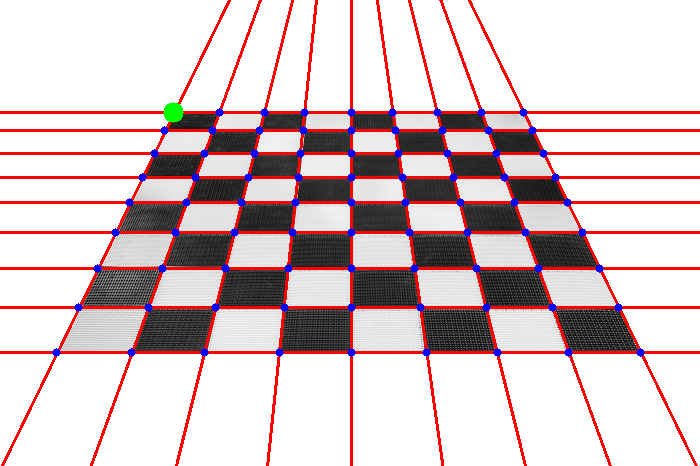
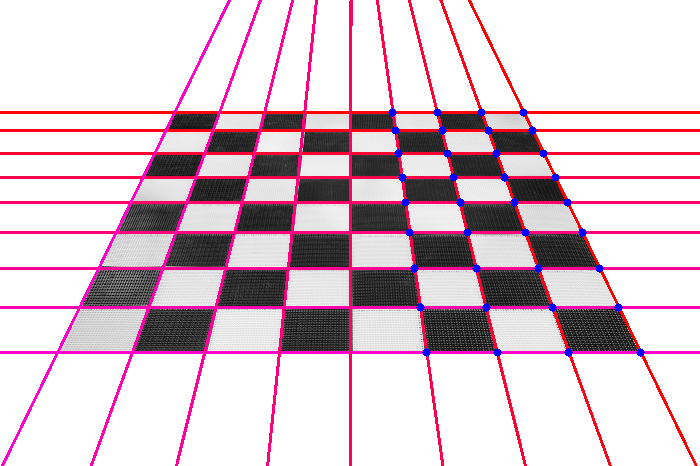
sorting lines works

diff --git a/separating lines.py b/separating lines.py
@@ -1,0 +1,228 @@
+import cv2
+import numpy as np
+import itertools
+from matplotlib import pyplot as plt
+from operator import itemgetter
+
+
+def absol2D(x,y):
+
+    return x*x+y*y
+
+def intersectionS(line1,line2):
+
+    r1=line1[0]
+    t1=line1[1]
+    r2=line2[0]
+    t2=line2[1]
+
+    det=np.cos(t1)*np.sin(t2)-np.sin(t1)*np.cos(t2)
+    #print("determinant: ",det)
+    if det==0:
+        # line are paralel
+        return False
+    else:
+        global px
+        global py
+        px=int((np.sin(t2)*r1-np.sin(t1)*r2)/det)
+        py=-int((np.cos(t2)*r1-np.cos(t1)*r2)/det)  #image coords...
+        if px>0 and px< width and py>0 and py< height:
+            #print(px,py)
+            cv2.circle(lineimg,(px,py), 4, (255,0,0), -1)
+            return True
+        else: 
+            # intersecton out of image
+            return False
+
+
+#def dist_of_2_points(x1,y1,x2,y2):
+#    return (x2-x1)**2+(y2-y1)**2
+
+def dist_of_2_points(p1,p2):
+    x1=p1[0]
+    y1=p1[1]
+    x2=p2[0]
+    y2=p2[1]
+    return (x2-x1)**2+(y2-y1)**2
+
+iter1=0
+filename = 'images2.jpg'
+orig = cv2.imread(filename)
+
+height, width, _ = orig.shape # height,width,colors
+
+#cv2.imshow('original',orig)
+img = cv2.imread(filename)
+gray = cv2.cvtColor(img,cv2.COLOR_BGR2GRAY)
+blurred = cv2.GaussianBlur(gray,(5,5),0)
+th2 = cv2.adaptiveThreshold(
+    blurred,
+    255,
+    cv2.ADAPTIVE_THRESH_MEAN_C,
+    cv2.THRESH_BINARY,
+    81,  #blocksize to consider
+    36)  #offset
+
+lineimg=orig
+
+edges = cv2.Canny(blurred,50,150,apertureSize = 3)
+
+lines = cv2.HoughLines(edges,1.5,np.pi/90,100)
+#print (lines)
+for x in range(len(lines)):
+    for rho, theta in lines[x]:
+
+        a = np.cos(theta)
+        b = np.sin(theta)
+        x0 = a*rho
+        y0 = b*rho
+        x1 = int(x0 + 1000*(-b))
+        y1 = int(y0 + 1000*(a))
+        x2 = int(x0 - 1000*(-b))
+        y2 = int(y0 - 1000*(a))
+
+    #cv2.line(lineimg,(x1,y1),(x2,y2),(0,0,255),2)
+
+
+
+
+###separating lines with Kmeans
+
+clean_lines=[i[0] for i in lines]
+
+theta=[i[1] for i in clean_lines]
+z = np.float32(theta)
+
+
+criteria = (cv2.TERM_CRITERIA_EPS + cv2.TERM_CRITERIA_MAX_ITER, 10, 1.0)
+flags = cv2.KMEANS_RANDOM_CENTERS
+
+# Apply KMeans
+compactness,labels,centers = cv2.kmeans(z,3,None,criteria,10,flags)
+
+###change z 2 clean_lines later...
+pack1=list(itertools.compress(clean_lines, labels==0))
+pack2=list(itertools.compress(clean_lines, labels==1))
+pack3=list(itertools.compress(clean_lines, labels==2))
+
+
+#plt.plot(z)
+#plt.plot(pack1)
+#plt.plot(pack2)
+#plt.plot(pack3)
+#plt.show()
+
+if len(pack1)==9:
+    biggrup=1
+    pack2=pack3+pack2
+    #print (11)
+elif len(pack2)==9:
+    biggrup=2
+    pack1=pack3+pack1
+    #print (22)
+    
+
+elif len(pack3)==9:
+    biggrup=3
+    pack2=pack1+pack2
+    pack1=pack3
+    #print (33)
+
+print (222, pack2)
+####sort the sparated lines, based on rho
+
+
+sorted_pack1=sorted(pack1, key=itemgetter(0))
+plt.plot(pack2)
+
+###doesnt work quite yet
+
+###add 180 degrees to low theta lines
+for i in range(len(pack2)):
+
+    if pack2[i][1]<np.pi/2 : pack2[i][1]=pack2[i][1]+np.pi
+
+print (222, pack2)
+plt.plot(pack2)
+sorted_pack2=sorted(pack2, key=itemgetter(1))
+
+#uc_x,uc_y=[np.cos(x[1]), np.sin(x[1]) for x in pack2]
+
+# uc_x=map((itemgetter(0)), pack2)
+# uc_y=map((itemgetter(0)), pack2)
+np_pack2 = np.array(pack2)
+uc_x=np.cos((np_pack2[:,1]))
+uc_y=np.sin((np_pack2[:,1]))
+
+
+# plt.plot(uc_x, uc_y)
+# plt.plot(uc_y)
+plt.show()
+
+
+
+for x in range(len(sorted_pack1)):
+    print (111,x, sorted_pack1[x])
+    theta=sorted_pack1[x][1]
+    rho=sorted_pack1[x][0]
+    print (rho,theta)
+    a = np.cos(theta)
+    b = np.sin(theta)
+    x0 = a*rho
+    y0 = b*rho
+    x1 = int(x0 + 1000*(-b))
+    y1 = int(y0 + 1000*(a))
+    x2 = int(x0 - 1000*(-b))
+    y2 = int(y0 - 1000*(a))
+
+    cv2.line(lineimg,(x1,y1),(x2,y2),(x*25,0,255),2)
+    #cv2.imshow('after_line_search',lineimg)
+    if cv2.waitKey(0) & 0xff == 27:
+        cv2.destroyAllWindows()
+
+for x in range(len(sorted_pack2)):
+    print (111,x, sorted_pack2[x])
+    theta=sorted_pack2[x][1]
+    if theta>np.pi: theta=theta-np.pi
+    rho=sorted_pack2[x][0]
+    print (rho,theta)
+    a = np.cos(theta)
+    b = np.sin(theta)
+    x0 = a*rho
+    y0 = b*rho
+    x1 = int(x0 + 1000*(-b))
+    y1 = int(y0 + 1000*(a))
+    x2 = int(x0 - 1000*(-b))
+    y2 = int(y0 - 1000*(a))
+
+    cv2.line(lineimg,(x1,y1),(x2,y2),(x*25,0,255),2)
+    cv2.imshow('after_line_search',lineimg)
+    if cv2.waitKey(0) & 0xff == 27:
+        cv2.destroyAllWindows()
+#cv2.imshow('after_blurr',blurred)
+#cv2.imshow('after_treshold',th2)
+#cv2.imshow('after_line_search',lineimg)
+
+combies=list(itertools.combinations(lines,2))
+# combination of all the lines to pairs
+# something better algorithm??
+px=0
+py=0
+# initial coordinats of crosses
+
+points=[]
+for i in combies:
+
+    #print (i[0][0], i[1][0])
+    if intersectionS(i[0][0], i[1][0]):
+
+        points.append([px,py])
+
+
+cv2.imshow('after_intersect_search',lineimg)
+
+if cv2.waitKey(0) & 0xff == 27:
+    cv2.destroyAllWindows()
+
+cv2.imwrite('chess.png',lineimg)
+

diff --git a/soduko_example.py b/soduko_example.py
@@ -32,6 +32,17 @@ def intersectionS(line1,line2):
             # intersecton out of image
             return False
 
+
+#def dist_of_2_points(x1,y1,x2,y2):
+#    return (x2-x1)**2+(y2-y1)**2
+
+def dist_of_2_points(p1,p2):
+    x1=p1[0]
+    y1=p1[1]
+    x2=p2[0]
+    y2=p2[1]
+    return (x2-x1)**2+(y2-y1)**2
+
 iter1=0
 filename = 'images2.jpg'
 orig = cv2.imread(filename)
@@ -112,15 +123,40 @@ for i in points:
         br_corner=[i[0], i[1] ]
         br_dist= (absol2D(i[0], i[1]))
 
+points.remove(br_corner)
+points.remove(tl_corner)
 ## DRAW agreen circle at the corners
 cv2.circle(lineimg,(tl_corner[0],tl_corner[1]), 10, (0,255,0), -1)
 cv2.circle(lineimg,(br_corner[0],br_corner[1]), 10, (0,255,0), -1)
-
-
-
 print ("top left corner ",tl_corner)
 print ("bottom right corner ",br_corner)
-#print (iter1)
+
+
+### FIND THE OTHER 2 CORNERS: DISTANCE FROM CORNERS ARE THE BIGGEST
+bl_corner=points[0]
+
+
+dist_sum_bl=0
+for i in points:
+    if dist_of_2_points(tl_corner,i)+dist_of_2_points(br_corner,i) > dist_sum_bl:
+        dist_sum_bl=dist_of_2_points(tl_corner,i)+dist_of_2_points(br_corner,i)
+        bl_corner=[i[0], i[1] ]
+
+points.remove(bl_corner)
+cv2.circle(lineimg,(bl_corner[0],bl_corner[1]), 10, (0,255,0), -1)
+print ("bottom left corner ",bl_corner)
+
+tr_corner=points[0]
+diagonaldist=0
+
+for i in points:
+    if dist_of_2_points(bl_corner,i)+dist_of_2_points(br_corner,i)>diagonaldist:
+        diagonaldist= dist_of_2_points(bl_corner,i)+dist_of_2_points(br_corner,i)
+        tr_corner=[i[0], i[1] ]
+
+cv2.circle(lineimg,(tr_corner[0],tr_corner[1]), 10, (255,255,0), -1)
+print ("top right corner ",tr_corner)
+
 cv2.imshow('after_intersect_search',lineimg)
 
 if cv2.waitKey(0) & 0xff == 27:

diff --git a/try.py b/try.py
@@ -5,17 +5,38 @@ matyas-czeman
 """
 import numpy as np
 import cv2
-def absol2D(x,y):
-    return x*x+y*y
 
-cap = cv2.VideoCapture(0)
 
-ll=[[5,3],[32,5],[-53,1],[53,5]]
-for i in ll:
-    absol=np.absolute(i)
-    #print (i)
-    print (absol)
 
-print (np.absolute([5,7]))
+from operator import itemgetter
+L=[[0, 1, 'f'], [4, 2, 't'], [9, 4, 'afsd']]
+xx=sorted(L, key=itemgetter(1))
 
-print (absoliiii(5,7))
+
+print(xx)
+
+
+a = [ [1,2], [2,9], [20,7] ]
+na = np.array(a)
+print (na[:,1])
+
+
+for elem in a:
+    print (elem[:1])
+    #if elem[:1] < 10: 
+      #  elem[:1]=elem[:1]+23
+
+moda=[z[0]+180 for z in a if z[0] < 2  ]
+
+#print (moda)
+
+print (a)
+
+for i in range(len(a)):
+    print (i)
+    if (a[i][0]) < 20: a[i][0]=a[i][0]+30
+
+
+print (a)
+
+
